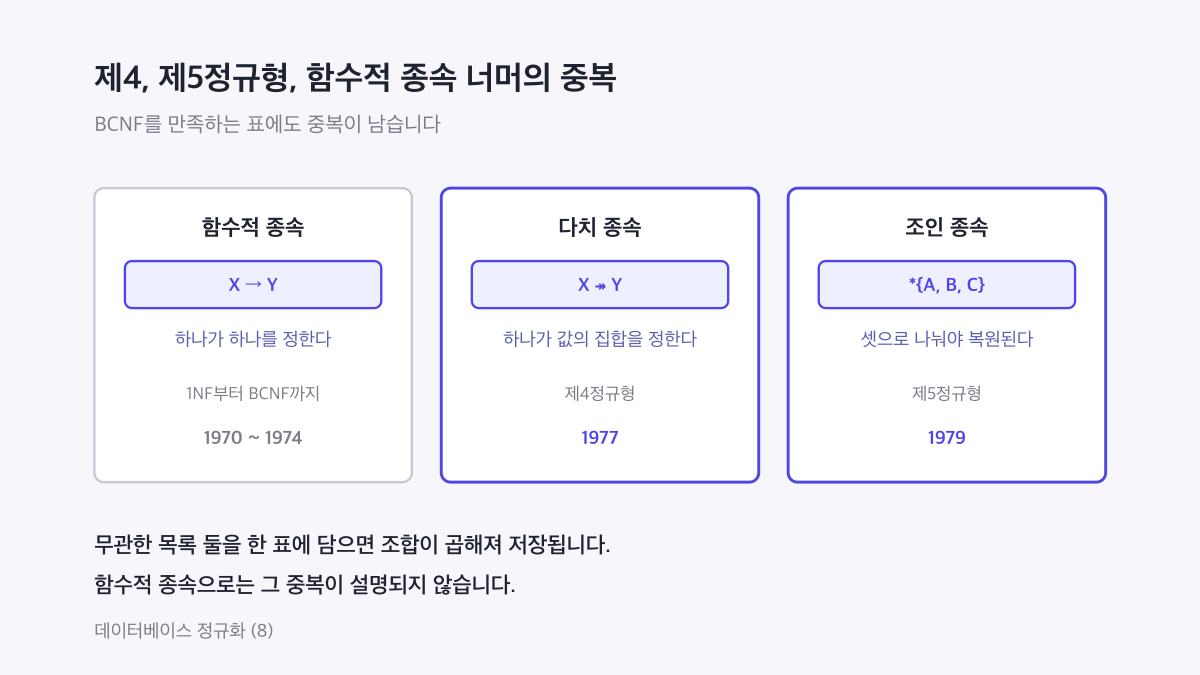
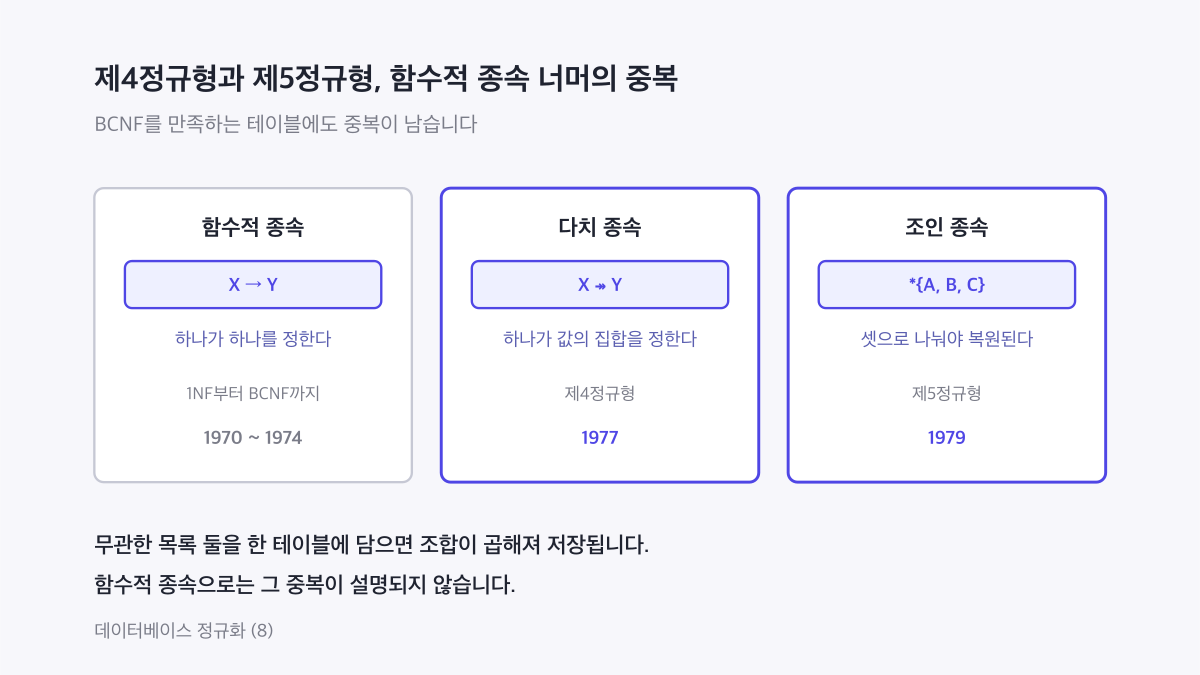
블로그: 정규화 8편 제목과 용어 정리, 종속 관계 그림 추가
제목을 "제4정규형과 제5정규형, 함수적 종속 너머의 중복" 으로 바꾸고,
관계를 가리키는 "표" 를 전부 "테이블" 로, "사영" 을 "프로젝션" 으로
통일한다. 세 종속의 포함 관계를 한 장으로 보이는 그림을 넣는다.

- 릴레이션은 테이블, 화면에 그린 마크다운 표만 표. docs/writing-terms.md
  에 relation, projection, row 세 항목 추가
- db-fd-mvd-jd-sets.svg 신규. 함수적 종속 ⊂ 다치 종속 ⊂ 조인 종속 을
  동심 타원으로 그리고 조인 종속 절에 배치
- db-4nf-multivalued.svg: 화살표에 과목 ↠ 교수 를 추가해 교수 컬럼이
  왜 나뉘는지 보이게 함. 위치가 어긋난 조인 설명 캡션 삭제, "줄" 을
  "행" 으로
- 자명한 다치 종속의 두 번째 조건이 왜 성립하는지를 본문에서 풀어 씀
- DKNF 절의 "그 역도 성립" 을 양방향으로 나눠 적음
- 제5정규형 절에 삽입 이상과 삭제 이상이 어떻게 생기는지 추가
- 1~7편 시리즈 상자의 8편 라벨을 새 제목으로 바꾸고, 7편과 8편을 링크로
  연결. pubDate 를 Sep 09 2026 으로

Changed region(s): [[0.0617, 0.0933, 0.5858, 0.2178], [0.2158, 0.7778, 0.5242, 0.84]]

diff --git a/src/content/blog/db-normalization-8-higher-normal-forms.md b/src/content/blog/db-normalization-8-higher-normal-forms.md
@@ -1,7 +1,7 @@
 ---
-title: '데이터베이스 정규화 (8): 제4, 제5정규형, 함수적 종속 너머의 중복'
-description: '제4정규형과 제5정규형을 개요 수준으로 다룹니다. BCNF를 만족하는데도 남는 중복, 그 중복을 설명하는 다치 종속과 조인 종속, 분해 절차, 그리고 도메인키 정규형(DKNF)과 제6정규형까지 정리합니다.'
-pubDate: 'Aug 30 2026'
+title: '데이터베이스 정규화 (8): 제4정규형과 제5정규형, 함수적 종속 너머의 중복'
+description: 'BCNF를 만족하는 테이블에도 중복이 남습니다. 함수적 종속으로는 설명되지 않는 그 중복의 이름인 다치 종속과 조인 종속, 자명한 종속을 조건에서 빼는 이유, 제4정규형과 제5정규형의 정의와 분해 절차, 그리고 도메인키 정규형과 제6정규형까지 정리합니다.'
+pubDate: 'Sep 09 2026'
 heroImage: '../../assets/db-normalization-8-higher-normal-forms-hero.svg'
 ogImage: '../../assets/db-normalization-8-higher-normal-forms-hero.png'
 tags: ['데이터베이스', '정규화', 'DB설계', '정규형']
@@ -13,7 +13,7 @@ draft: false
 
 [7편](/blog/db-normalization-7-keys-natural-surrogate/)에서는 잠시 정규형에서 벗어나 키 설계를 다뤘습니다. 이번 편은 정규형으로 돌아옵니다.
 
-한 과목에서 쓰는 교재와 그 과목을 담당하는 교수를 한 표에 담았습니다. 한 교재를 여러 과목에서 쓸 수 있고, 한 교수도 여러 과목을 담당할 수 있습니다.
+한 과목에서 쓰는 교재와 그 과목을 담당하는 교수를 한 테이블에 담았습니다. 한 교재를 여러 과목에서 쓸 수 있고, 한 교수도 여러 과목을 담당할 수 있습니다. 교재를 무엇으로 정하든 담당 교수는 달라지지 않습니다.
 
 | 과목 | 교재 | 교수 |
 |------|------|------|
@@ -22,9 +22,9 @@ draft: false
 | 데이터베이스 | 교재B | 박교수 |
 | 데이터베이스 | 교재B | 정교수 |
 
-이 표에는 비자명한 함수적 종속이 하나도 없습니다. 과목을 알아도 교재가 정해지지 않고, 과목과 교재를 알아도 교수가 정해지지 않습니다. 결정자가 없으니 [6편](/blog/db-normalization-6-bcnf/)의 BCNF 조건을 따질 것도 없이 통과합니다.
+이 테이블에는 비자명한 함수적 종속이 하나도 없습니다. 과목을 알아도 교재가 정해지지 않고, 과목과 교재를 알아도 교수가 정해지지 않습니다. 결정자가 없으니 [6편](/blog/db-normalization-6-bcnf/)의 BCNF 조건을 따질 것도 없이 통과합니다.
 
-그런데 교재를 한 권 더 넣으려면 두 줄을 넣어야 합니다. 교수 두 명을 다 채워야 하기 때문입니다. 정교수가 담당에서 빠지면 두 줄을 지워야 합니다. 교재 목록과 교수 목록이 서로 곱해진 채로 저장되어 있습니다.
+그런데 교재를 한 권 더 넣으려면 두 행을 넣어야 합니다. 교수 두 명을 다 채워야 하기 때문입니다. 정교수가 담당에서 빠지면 두 행을 지워야 합니다. 교재 목록과 교수 목록이 서로 곱해진 채로 저장되어 있습니다.
 
 > **시리즈 구성**
 > 1. [데이터 무결성과 키](/blog/db-normalization-1-integrity-and-keys/)
@@ -34,24 +34,26 @@ draft: false
 > 5. [제3정규형 (3NF)](/blog/db-normalization-5-3nf/)
 > 6. [보이스-코드 정규형 (BCNF)](/blog/db-normalization-6-bcnf/)
 > 7. [자연키와 대리키: 키 설계](/blog/db-normalization-7-keys-natural-surrogate/)
-> 8. **제4, 제5정규형 개요와 그 너머** (이번 글)
+> 8. **제4정규형과 제5정규형, 함수적 종속 너머의 중복** (이번 글)
 > 9. 정규화 절차와 역정규화
 
 ## 함수적 종속으로는 설명되지 않는 중복
 
-위 표를 다시 봅니다. 후보키는 세 컬럼 전체입니다. 어떤 두 컬럼도 나머지 한 컬럼을 정하지 못하기 때문입니다. 과목은 교재를 하나로 정하지 못하고, 교재도 과목을 하나로 정하지 못합니다.
+위 테이블을 다시 봅니다. 후보키는 세 컬럼 전체입니다. 어떤 두 컬럼도 나머지 한 컬럼을 정하지 못하기 때문입니다. 과목은 교재를 하나로 정하지 못하고, 교재도 과목을 하나로 정하지 못합니다.
 
-비자명한 함수적 종속이 없으므로 1NF부터 BCNF까지 전부 만족합니다. [2편](/blog/db-normalization-2-anomalies/)에서 다룬 함수적 종속을 기준으로 삼는 한, 이 표에는 고칠 것이 없습니다.
+비자명한 함수적 종속이 없으므로 1NF부터 BCNF까지 전부 만족합니다. [2편](/blog/db-normalization-2-anomalies/)에서 다룬 함수적 종속을 기준으로 삼는 한, 이 테이블에는 고칠 것이 없습니다.
 
 그런데도 [2편](/blog/db-normalization-2-anomalies/)의 이상현상이 그대로 나타납니다.
 
-- **삽입**: 교재C를 추가하려면 교수 수만큼, 즉 두 줄을 넣어야 합니다. 한 줄만 넣으면 "교재C는 박교수 수업에서만 쓴다"는 없던 사실이 생깁니다.
-- **삭제**: 정교수가 담당에서 빠지면 교재 수만큼, 즉 두 줄을 지워야 합니다.
-- **갱신**: 교재A의 제목이 바뀌면 그 교재가 들어간 줄을 전부 고쳐야 합니다.
+- **삽입**: 교재C를 쓰기로 하면 두 행을 넣어야 합니다. 박교수 행과 정교수 행입니다. 한 행만 넣으면 "교재C는 박교수 수업에서만 쓴다"는 없던 사실이 생깁니다.
+- **삭제**: 정교수가 담당에서 빠지면 두 행을 지워야 합니다. 한 행만 지우면 교재 한 권이 정교수 담당으로 남습니다.
+- **갱신**: 교재A가 개정판으로 바뀌면 그 교재가 들어간 두 행을 함께 고쳐야 합니다. 한 행만 고치면 한 과목이 세 권을 쓰는 테이블이 됩니다.
 
-원인은 표에 담긴 사실이 두 종류라는 데 있습니다. 하나는 "이 과목은 이 교재들을 쓴다"이고, 다른 하나는 "이 과목은 이 교수들이 담당한다"입니다. 두 사실은 서로 무관합니다. 교재를 무엇으로 정하든 담당 교수는 달라지지 않습니다.
+세 항목의 모양이 같습니다. 사실 하나를 넣고 지우고 고치는 데 여러 행을 함께 건드려야 하고, 하나라도 빠뜨리면 테이블이 업무 규칙과 어긋납니다.
 
-무관한 두 목록을 한 표에 담으면 모든 조합이 행으로 나옵니다. 교재 두 권과 교수 두 명이면 네 줄, 세 권과 세 명이면 아홉 줄입니다. 저장된 사실은 여섯 개인데 행은 아홉 개입니다.
+원인은 테이블에 담긴 사실이 두 종류라는 데 있습니다. 하나는 "이 과목은 이 교재들을 쓴다"이고, 다른 하나는 "이 과목은 이 교수들이 담당한다"입니다. 두 사실은 서로 무관합니다.
+
+무관한 두 목록을 한 테이블에 담으면 모든 조합이 행으로 나옵니다. 교재 두 권과 교수 두 명이면 네 행, 세 권과 세 명이면 아홉 행입니다. 저장된 사실은 여섯 개인데 행은 아홉 개입니다.
 
 함수적 종속은 "하나가 하나를 정한다"를 다룹니다. 여기서 문제가 되는 관계는 "하나가 값의 집합을 정한다"입니다. 이 관계를 부르는 이름이 다치 종속입니다.
 
@@ -59,15 +61,29 @@ draft: false
 
 **다치 종속(multivalued dependency)** 은 X의 값 하나가 Y 값의 집합을 정하는 관계입니다. 그 집합이 나머지 속성 값과 무관하게 늘 같으면 다치 종속이 성립합니다. `X ↠ Y`로 적고, 화살표는 함수적 종속과 구분하려고 머리가 둘인 것을 씁니다.
 
-위 표에서는 `과목 ↠ 교재`가 성립합니다. 데이터베이스 과목의 교재 집합은 어느 교수 행을 골라 보든 `{교재A, 교재B}`로 같습니다. 같은 이유로 `과목 ↠ 교수`도 성립합니다.
+위 테이블에서는 `과목 ↠ 교재`가 성립합니다. 데이터베이스 과목의 교재 집합은 어느 교수 행을 골라 보든 `{교재A, 교재B}`로 같습니다. 같은 이유로 `과목 ↠ 교수`도 성립합니다.
 
 다치 종속은 이렇게 짝으로 나타납니다. 릴레이션의 속성이 X, Y, 나머지 Z로 나뉠 때 `X ↠ Y`가 성립하면 `X ↠ Z`도 성립합니다.
 
-**자명한 다치 종속(trivial MVD)** 은 정규형 판단에서 제외합니다. Y가 X에 이미 포함되거나, X와 Y를 합치면 릴레이션의 모든 속성이 되는 경우입니다. 이런 종속은 어느 표에서나 성립합니다. [2편](/blog/db-normalization-2-anomalies/)에서 다룬 자명한 함수적 종속을 정규형 판단에서 제외한 것과 같은 이유입니다.
-
 모든 함수적 종속은 다치 종속입니다. `X → Y`가 성립하면 X 값 하나에 대응하는 Y 값의 집합은 원소가 하나뿐이고, 그 집합은 나머지 속성 값과 무관하게 같습니다. 다치 종속은 함수적 종속을 집합 쪽으로 넓힌 개념입니다.
 
-한 가지 전제가 있습니다. 다치 종속은 조합이 빠짐없이 들어 있어야 성립합니다. 위 표에서 `데이터베이스, 교재B, 정교수` 줄이 빠지면 교재 집합이 교수마다 달라지므로 `과목 ↠ 교재`는 성립하지 않습니다. 다치 종속은 데이터가 우연히 그렇게 생긴 것이 아니라 업무 규칙으로 그래야 하는 경우를 가리킵니다.
+한 가지 전제가 있습니다. 다치 종속은 조합이 빠짐없이 들어 있어야 성립합니다. 위 테이블에서 `데이터베이스, 교재B, 정교수` 행이 빠지면 교재 집합이 교수마다 달라지므로 `과목 ↠ 교재`는 성립하지 않습니다. 다치 종속은 데이터가 우연히 그렇게 생긴 것이 아니라 업무 규칙으로 그래야 하는 경우를 가리킵니다.
+
+## 자명한 종속은 왜 정규형 조건에서 빠질까?
+
+정규형 조건은 언제나 **비자명한** 종속만 따집니다. 뒤에 나올 제4정규형의 정의도 마찬가지라서, 무엇이 빠지는지 먼저 정해 둡니다.
+
+**자명한 함수적 종속**은 `X → Y`에서 Y가 X에 이미 들어 있는 경우입니다. 위 테이블의 `{과목, 교재} → 과목`이 그렇습니다. **자명한 다치 종속**은 두 가지입니다. Y가 X에 들어 있거나, X와 Y를 합치면 릴레이션의 속성 전부가 되는 경우입니다.
+
+빼는 이유는 세 가지입니다.
+
+첫째, 그 테이블에 대해 알려 주는 것이 없습니다. `{과목, 교재} → 과목`은 학생 테이블에서도 주문 테이블에서도 같은 모양으로 성립합니다. 어느 테이블에서나 참인 종속은 그 테이블만의 성질이 아닙니다.
+
+둘째, 중복을 만들지 않습니다. 정규형은 중복을 줄이려고 거는 조건입니다. Y가 X 안에 이미 들어 있으면 따로 저장되는 값이 없으니 겹쳐 저장될 것도 없습니다.
+
+셋째, 빼지 않으면 조건이 성립하지 않습니다. BCNF는 비자명한 함수적 종속에서 결정자가 슈퍼키여야 한다는 조건입니다. 자명한 것까지 넣으면 `{과목, 교재} → 과목`이 걸립니다. `{과목, 교재}`는 슈퍼키가 아니므로 위반입니다. 후보키가 세 컬럼 전체인 테이블은 어느 것도 BCNF를 통과할 수 없게 됩니다. 게다가 분해로 없앨 수도 없습니다. Y가 X 안에 들어 있으니 떼어 낼 것이 없습니다.
+
+다치 종속의 두 번째 자명 조건도 같은 자리에 있습니다. 과목과 교재 두 컬럼만 있는 테이블에서 `과목 ↠ 교재`는 언제나 성립합니다. 나머지 속성이 없어서 "나머지 속성 값과 무관하게 같은 집합"이라는 조건이 저절로 참이 됩니다. 이 조건은 분해 결과를 판정할 때 다시 씁니다.
 
 ## 제4정규형의 정의
 
@@ -80,19 +96,19 @@ draft: false
 | BCNF | 비자명한 함수적 종속 `X → Y` | X가 슈퍼키 |
 | 4NF | 비자명한 다치 종속 `X ↠ Y` | X가 슈퍼키 |
 
-앞의 표를 이 기준으로 판정합니다. `과목 ↠ 교재`는 비자명합니다. 교재는 과목에 포함되지 않고, 과목과 교재를 합쳐도 세 컬럼이 되지 않기 때문입니다. 그리고 `과목`은 슈퍼키가 아닙니다. 후보키가 세 컬럼 전체이기 때문입니다. 따라서 4NF 위반입니다.
-
-![과목, 교재, 교수를 한 표에 담으면 교재 두 권과 교수 두 명의 조합이 네 줄로 저장되지만, 과목과 교재, 과목과 교수 두 표로 나누면 각각 두 줄씩만 저장되고 두 표를 과목으로 조인해 원래 표를 복원할 수 있음을 비교한 도식](../../assets/db-4nf-multivalued.svg)
+앞의 테이블을 이 기준으로 판정합니다. `과목 ↠ 교재`는 비자명합니다. 교재는 과목에 포함되지 않고, 과목과 교재를 합쳐도 세 컬럼이 되지 않기 때문입니다. 그리고 `과목`은 슈퍼키가 아닙니다. 후보키가 세 컬럼 전체이기 때문입니다. 따라서 4NF 위반입니다.
 
 ## 제4정규형으로 만드는 과정
 
-표를 4NF로 정규화하는 절차입니다. BCNF 때와 같은 모양입니다.
+테이블을 4NF로 정규화하는 절차입니다. BCNF 때와 같은 모양입니다.
 
 1. 비자명한 다치 종속을 나열하고, 각 결정자가 슈퍼키인지 확인한다.
-2. 결정자가 슈퍼키가 아닌 다치 종속 `X ↠ Y`를 찾으면, `X`와 `Y`를 묶어 별도 표로 분리한다.
-3. `X`와 나머지 속성을 묶어 또 하나의 표로 둔다.
+2. 결정자가 슈퍼키가 아닌 다치 종속 `X ↠ Y`를 찾으면, `X`와 `Y`를 묶어 별도 테이블로 분리한다.
+3. `X`와 나머지 속성을 묶어 또 하나의 테이블로 둔다.
 
-위 예에서 문제가 된 종속은 `과목 ↠ 교재`이고, 결정자 `과목`이 슈퍼키가 아닙니다. 이를 기준으로 분리합니다.
+위 예에서 결정자가 슈퍼키가 아닌 다치 종속은 `과목 ↠ 교재`와 `과목 ↠ 교수` 둘입니다. 짝으로 나타나므로 둘 다 위반이고, 한 번의 분해로 둘을 함께 처리합니다. `{과목, 교재}`를 한 테이블로 떼어 내면 남은 `{과목, 교수}`가 두 번째 테이블이 됩니다.
+
+![과목, 교재, 교수를 한 테이블에 담으면 교재 두 권과 교수 두 명의 조합이 네 행으로 저장되지만, 다치 종속 두 개를 기준으로 과목-교재와 과목-교수 두 테이블로 나누면 각각 두 행씩만 저장됨을 비교한 도식](../../assets/db-4nf-multivalued.svg)
 
 **과목-교재**: `{과목, 교재}(PK)`
 
@@ -108,15 +124,29 @@ draft: false
 | 데이터베이스 | 박교수 |
 | 데이터베이스 | 정교수 |
 
-이제 교재C를 추가하면 과목-교재에 한 줄만 넣으면 됩니다. 정교수가 담당에서 빠지면 과목-교수에서 한 줄만 지웁니다. 두 표를 `과목`으로 조인하면 원래 네 줄이 그대로 복원됩니다.
+## 나눈 테이블에서는 다치 종속이 자명해진다
 
-교재 세 권과 교수 세 명이면 차이가 커집니다. 한 표에 담으면 아홉 줄이지만, 나누면 세 줄과 세 줄입니다.
+두 테이블이 4NF를 만족하는 이유는 `과목`이 슈퍼키가 되어서가 아닙니다. 과목-교재 테이블의 후보키는 여전히 `{과목, 교재}` 전체이고, `과목`은 그대로 슈퍼키가 아닙니다.
 
-## 조인 종속과 제5정규형: 셋으로 나눠야 복원되는 표
+달라진 것은 종속 쪽입니다. 과목과 교재만 남기면 `과목 ↠ 교재`에서 X와 Y를 합친 것이 테이블의 속성 전부가 됩니다. 앞 절에서 본 두 번째 자명 조건입니다. 조건이 따지는 대상에서 빠지고, 비자명한 다치 종속은 하나도 남지 않습니다. 과목-교수 테이블도 같습니다.
 
-4NF까지 오면 표를 둘로 쪼개 없앨 수 있는 중복은 정리됩니다. 그런데 둘로 쪼개면 원래 데이터가 복원되지 않고, 셋으로 쪼개야 복원되는 표가 있습니다.
+이상현상도 함께 없어집니다.
 
-공급업체가 프로젝트 현장에 부품을 대는 표를 봅니다.
+- **삽입**: 교재C를 쓰기로 하면 과목-교재에 한 행을 넣습니다. 교수 목록은 다른 테이블에 있어서 영향을 받지 않습니다.
+- **삭제**: 정교수가 담당에서 빠지면 과목-교수에서 한 행을 지웁니다. 교재 목록은 그대로 남습니다.
+- **갱신**: 교재A가 개정판으로 바뀌면 과목-교재의 한 행만 고칩니다.
+
+사실 하나가 한 행에만 적혀 있으니 함께 건드릴 다른 행이 없습니다. 빠뜨려서 테이블이 업무 규칙과 어긋날 자리도 없어집니다.
+
+정보는 잃지 않습니다. 두 테이블을 `과목`으로 조인하면 원래 네 행이 그대로 나옵니다. 다치 종속 `X ↠ Y`가 성립하는 것과, XY와 XZ 두 테이블로 나눈 뒤 조인해 원래 릴레이션이 복원되는 것은 같은 조건입니다. Fagin의 1977년 논문이 이 동치를 보입니다.
+
+교재 세 권과 교수 세 명이면 차이가 커집니다. 한 테이블에 담으면 아홉 행이지만, 나누면 세 행과 세 행입니다.
+
+## 둘로 나누면 없던 행이 생기는 테이블
+
+다치 종속으로 잡히는 중복은 테이블 둘로 나눠 정리했습니다. 둘로 나눠서는 복원되지 않는 테이블도 있습니다.
+
+공급업체가 프로젝트 현장에 부품을 대는 테이블을 봅니다.
 
 | 공급업체 | 부품 | 프로젝트 |
 |----------|------|----------|
@@ -127,37 +157,58 @@ draft: false
 
 여기에 업무 규칙이 하나 있습니다. **어떤 업체가 어떤 부품을 공급하고, 그 부품을 어떤 현장이 쓰고, 그 업체가 그 현장에 납품하고 있다면, 그 업체는 그 현장에 그 부품을 공급한다**는 규칙입니다.
 
-마지막 줄이 이 규칙 때문에 있는 줄입니다. A사는 볼트를 공급하고(1행), 1현장은 볼트를 쓰고(3행), A사는 1현장에 납품합니다(2행). 세 조건이 모두 맞으므로 `A사, 볼트, 1현장`이 반드시 있어야 합니다.
+마지막 행이 이 규칙 때문에 있는 행입니다. A사는 볼트를 공급하고(1행), 1현장은 볼트를 쓰고(3행), A사는 1현장에 납품합니다(2행). 세 조건이 모두 맞으므로 `A사, 볼트, 1현장`이 반드시 있어야 합니다.
 
-이 표에는 비자명한 다치 종속이 없습니다. `공급업체 ↠ 부품`이 성립하려면 A사의 부품 집합 `{볼트, 너트}`가 A사의 현장마다 똑같이 나와야 하는데, `A사, 너트, 2현장`이 없습니다. 다른 조합도 마찬가지입니다. 그러므로 4NF를 만족합니다. 그런데도 마지막 줄은 앞의 세 줄에서 규칙으로 유도되므로, 같은 사실이 두 군데 적혀 있습니다.
+이 테이블에는 비자명한 다치 종속이 없습니다. `공급업체 ↠ 부품`이 성립하려면 A사의 부품 집합 `{볼트, 너트}`가 A사의 현장마다 똑같이 나와야 하는데, `A사, 너트, 2현장`이 없습니다. 다른 조합도 마찬가지입니다. 그러므로 제4정규형을 만족합니다.
 
-이 표를 두 컬럼씩 셋으로 나눠 봅니다.
+그런데도 이상현상이 나타납니다. 규칙이 요구하는 행을 사람이 직접 채워 넣어야 하기 때문입니다.
+
+- **삽입**: `A사, 볼트, 2현장`과 `B사, 볼트, 1현장` 두 행만 있는 상태에서 A사가 1현장에 너트를 대기 시작했다고 합시다. `A사, 너트, 1현장` 한 행으로 끝나지 않습니다. A사가 볼트를 공급하고 1현장이 볼트를 쓰는데 A사가 1현장에 납품하게 되었으므로, 규칙에 따라 `A사, 볼트, 1현장`도 함께 넣어야 합니다. 지금 네 행은 그렇게 만들어진 모양입니다.
+- **삭제**: 네 행에서 `A사, 볼트, 1현장`만 지우면 규칙과 어긋납니다. 남은 세 행이 여전히 A사의 볼트 공급, 1현장의 볼트 사용, A사의 1현장 납품을 말하고 있기 때문입니다. 지우려면 다른 행까지 함께 지워야 합니다.
+
+한 행이 앞의 세 행에서 규칙으로 유도되므로, 같은 사실이 두 군데 적혀 있는 셈입니다.
+
+## 셋으로 나눠야 원래 테이블이 복원된다
+
+이 테이블을 두 컬럼씩 뽑아 세 테이블로 나눠 봅니다.
 
 - **공급**(공급업체, 부품): `A사-볼트`, `A사-너트`, `B사-볼트`
 - **사용**(부품, 프로젝트): `볼트-2현장`, `너트-1현장`, `볼트-1현장`
 - **납품**(공급업체, 프로젝트): `A사-2현장`, `A사-1현장`, `B사-1현장`
 
-셋을 모두 조인하면 원래 네 줄이 나옵니다. 규칙이 만들던 마지막 줄은 조인이 다시 만들어 줍니다. 반면 둘만 조인하면 안 됩니다. 공급과 납품을 `공급업체`로 조인하면 A사의 부품 두 개와 A사의 현장 두 개가 곱해져 네 줄이 나오고, 거기에 B사 한 줄이 붙어 다섯 줄이 됩니다. 원래 표에 없던 `A사, 너트, 2현장`이 섞여 들어옵니다.
+셋을 모두 조인하면 원래 네 행이 나옵니다. 규칙이 만들던 마지막 행은 조인이 다시 만들어 줍니다. 앞 절의 이상현상도 함께 없어집니다. A사가 1현장에 너트를 대기 시작하면 공급에 `A사-너트`, 납품에 `A사-1현장`을 넣으면 되고, 규칙이 요구하는 조합은 저장되는 대신 조인 결과로 나옵니다.
 
-여기서 성립하는 제약이 **조인 종속(join dependency)** 입니다. 릴레이션 R을 여러 조각으로 사영한 뒤 다시 조인하면 R이 그대로 복원된다는 제약이고, `*{A, B, ..., Z}`로 적습니다. 다치 종속은 조인 종속의 특수한 경우입니다. 조각이 둘인 조인 종속이 다치 종속이고, 조각이 셋 이상이면 다치 종속으로는 잡히지 않습니다.
+둘만 조인하면 안 됩니다. 공급과 납품을 `공급업체`로 조인하면 A사의 부품 두 개와 A사의 현장 두 개가 곱해져 네 행이 나오고, 거기에 B사 한 행이 붙어 다섯 행이 됩니다. 원래 테이블에 없던 `A사, 너트, 2현장`이 섞여 들어옵니다.
 
-**제5정규형(5NF)은 모든 비자명한 조인 종속이 후보키로부터 유도되어야 한다**는 조건입니다. 조인 종속을 이루는 각 조각이 모두 릴레이션의 슈퍼키일 때 그렇습니다. Fagin이 1979년 논문 「Normal Forms and Relational Database Operators」에서 제안했습니다. 사영과 조인만 쓸 때 더 나눌 것이 없는 상태라는 뜻에서 **사영-조인 정규형(projection-join normal form, PJ/NF)** 이라고도 부릅니다.
+## 조인 종속이란
 
-위 표의 세 조각짜리 조인 종속은 조각 어느 것도 슈퍼키가 아니므로 5NF 위반입니다. 셋으로 나눈 뒤에는 각 표에 비자명한 조인 종속이 남지 않아 5NF를 만족합니다.
+방금 확인한 성질이 조인 종속입니다. **조인 종속(join dependency)** 은 릴레이션 R을 여러 테이블로 나눈 뒤 다시 조인하면 R이 그대로 복원된다는 제약입니다. `*{A, B, ..., Z}`로 적고, 각 항목은 나눈 테이블의 컬럼 목록입니다.
+
+다치 종속은 조인 종속의 특수한 경우입니다. 나눈 테이블이 둘인 조인 종속이 다치 종속입니다. 앞에서 본 대로, `X ↠ Y`가 성립하는 것과 XY와 XZ 두 테이블로 나눈 분해가 복원되는 것은 같은 조건이었습니다. 나눈 테이블이 셋 이상이면 다치 종속으로는 잡히지 않습니다.
+
+세 종속의 관계를 한자리에 놓으면 이렇습니다.
+
+![함수적 종속, 다치 종속, 조인 종속을 세 겹 동심원으로 나타낸 도식. 가장 안쪽이 X 값 하나가 Y 값 하나를 정하는 함수적 종속, 그 바깥이 X 값 하나가 Y 값의 집합을 정하는 다치 종속이며 테이블 둘로 나누는 조인 종속과 같음, 가장 바깥이 테이블 셋 이상으로 나누는 조인 종속임을 적어 둔 그림](../../assets/db-fd-mvd-jd-sets.svg)
+
+## 제5정규형의 정의
+
+**제5정규형(5NF)은 모든 비자명한 조인 종속이 후보키로부터 유도되어야 한다**는 조건입니다. 조인 종속이 가리키는 각 테이블의 컬럼 목록이 모두 릴레이션의 슈퍼키일 때 그렇습니다. Fagin이 1979년 논문 「Normal Forms and Relational Database Operators」에서 제안했습니다. 컬럼 일부만 뽑는 연산과 조인만 쓸 때 더 나눌 것이 없는 상태라는 뜻에서 **프로젝션 조인 정규형(projection-join normal form, PJ/NF)** 이라고도 부릅니다.
+
+위 테이블의 세 테이블짜리 조인 종속은 어느 컬럼 목록도 슈퍼키가 아니므로 5NF 위반입니다. 셋으로 나눈 뒤에는 각 테이블에 비자명한 조인 종속이 남지 않아 5NF를 만족합니다.
 
 ## 제5정규형 판정에는 업무 규칙이 필요하다
 
-조인 종속은 표에 들어 있는 데이터만 봐서는 알 수 없습니다.
+조인 종속은 테이블에 들어 있는 데이터만 봐서는 알 수 없습니다.
 
-앞의 네 줄만 놓고 보면 마지막 줄이 왜 있는지 알 수 없습니다. 규칙 때문에 있어야 하는 줄일 수도 있고, A사가 1현장에 볼트를 댄 일이 있어서 들어온 줄일 수도 있습니다. 앞의 세 줄이 있을 때 마지막 줄이 없어도 되는 업무라면, 이 표에는 조인 종속이 없고 5NF 위반도 아닙니다.
+앞의 네 행만 놓고 보면 마지막 행이 왜 있는지 알 수 없습니다. 규칙 때문에 있어야 하는 행일 수도 있고, A사가 1현장에 볼트를 댄 일이 있어서 들어온 행일 수도 있습니다. 앞의 세 행이 있을 때 마지막 행이 없어도 되는 업무라면, 이 테이블에는 조인 종속이 없고 5NF 위반도 아닙니다.
 
-구분이 안 되는데 나누면 데이터가 늘어납니다. 규칙이 없는 표를 셋으로 쪼개고 다시 조인하면, 조금 전에 본 `A사, 너트, 2현장`처럼 원래 없던 행이 생깁니다. 없던 사실이 만들어지는 것이므로 나누기 전보다 나쁩니다. 함수적 종속은 컬럼 사이의 관계라 스키마와 데이터를 보면 상당 부분 짐작할 수 있지만, 조인 종속은 그렇지 않습니다.
+구분이 안 되는데 나누면 데이터가 늘어납니다. 규칙이 없는 테이블을 셋으로 나누고 다시 조인하면, 조금 전에 본 `A사, 너트, 2현장`처럼 원래 없던 행이 생깁니다. 없던 사실이 만들어지는 것이므로 나누기 전보다 나쁩니다. 함수적 종속은 컬럼 사이의 관계라 스키마와 데이터를 보면 상당 부분 짐작할 수 있지만, 조인 종속은 그렇지 않습니다.
 
-문제가 되는 자리도 좁습니다. 공급업체, 부품, 프로젝트처럼 실체 셋을 함께 담는 관계 표에서 나타납니다. 두 실체를 잇는 관계 표는 조각이 둘뿐이라 4NF까지로 정리됩니다.
+5NF 위반은 실체 셋을 한 테이블에 담았을 때 생깁니다. 공급업체, 부품, 프로젝트가 그런 경우입니다. 실체 둘만 잇는 테이블은 컬럼을 나눠 봐야 테이블이 둘이고, 테이블 둘로 나누는 조인 종속은 곧 다치 종속입니다. 그런 테이블은 제4정규형까지만 확인하면 됩니다.
 
 ## 도메인키 정규형(DKNF)과 제6정규형
 
-4NF와 5NF 뒤로도 정규형은 더 있습니다. 6편의 연표를 이어 그리면 이렇습니다.
+4NF와 5NF 뒤로도 정규형은 더 있습니다. [6편](/blog/db-normalization-6-bcnf/)의 연표를 이어 그리면 이렇습니다.
 
 | 연도 | 정규형 | 도입 | 다루는 것 |
 |------|--------|------|-----------|
@@ -166,49 +217,50 @@ draft: false
 | 1974 | BCNF | Boyce, Codd | 결정자가 후보키가 아닌 함수적 종속 |
 | 1977 | **4NF** | Fagin | 다치 종속 |
 | 1979 | **5NF (PJ/NF)** | Fagin | 조인 종속 |
-| 1981 | DKNF | Fagin | 종속 대신 도메인과 키 |
-| 2002 | 6NF | Date, Darwen, Lorentzos | 비자명한 조인 종속 전부 |
-| 2012 | ETNF | Darwen, Date, Fagin | 4NF와 5NF 사이 |
+| 1981 | **DKNF** | Fagin | 종속 대신 도메인과 키 |
+| 2002 | **6NF** | Date, Darwen, Lorentzos | 비자명한 조인 종속 전부 |
+| 2012 | **ETNF** | Darwen, Date, Fagin | 4NF와 5NF 사이 |
 
 **도메인키 정규형(DKNF)** 은 Fagin이 1981년 논문 「A Normal Form for Relational Databases That Is Based on Domains and Keys」에서 제안했습니다. 앞의 정규형들이 종속성으로 정의된 것과 달리, 도메인 제약과 키 제약이라는 더 기본적인 개념으로 정의합니다. 릴레이션에 걸린 모든 제약이 도메인 제약과 키 제약에서 논리적으로 따라 나오면 DKNF입니다.
 
-논문은 스키마가 DKNF이면 삽입 이상과 삭제 이상이 없고, 그 역도 성립함을 보이는 취지로 설명합니다. [2편](/blog/db-normalization-2-anomalies/)에서 다룬 이상현상을 정규형의 정의 자리에 올려놓은 셈입니다. 다만 어떤 스키마든 DKNF로 바꾸는 일반적인 절차는 알려져 있지 않습니다. 위키백과 항목은 있는 스키마를 옮기기보다 처음부터 DKNF로 설계하는 쪽이 쉽다고 적습니다.
+논문은 스키마가 DKNF이면 삽입 이상과 삭제 이상이 없고, 거꾸로 삽입 이상과 삭제 이상이 없으면 그 스키마가 DKNF임을 보이는 취지로 설명합니다. [2편](/blog/db-normalization-2-anomalies/)에서 다룬 이상현상을 정규형의 정의 자리에 올려놓은 셈입니다. 다만 어떤 스키마든 DKNF로 바꾸는 일반적인 절차는 알려져 있지 않습니다. 위키백과 항목은 있는 스키마를 옮기기보다 처음부터 DKNF로 설계하는 쪽이 쉽다고 적습니다.
 
-**제6정규형(6NF)** 은 C.J. Date, Hugh Darwen, Nikos Lorentzos가 2002년 책 『Temporal Data and the Relational Model』에서 제시한 용어입니다. 비자명한 조인 종속을 하나도 갖지 않는 상태이고, 실제 모양은 키와 속성 하나로 이루어진 표에 가깝습니다. 속성마다 값이 바뀌는 시점이 다른 시간 데이터를 다루려고 도입됐습니다.
+**제6정규형(6NF)** 은 C.J. Date, Hugh Darwen, Nikos Lorentzos가 2002년 책 『Temporal Data and the Relational Model』에서 제시한 용어입니다. 비자명한 조인 종속을 하나도 갖지 않는 상태이고, 실제 모양은 키와 속성 하나로 이루어진 테이블에 가깝습니다. 속성마다 값이 바뀌는 시점이 다른 시간 데이터를 다루려고 도입됐습니다.
 
 4NF와 5NF 사이에도 정규형이 하나 있습니다. Darwen, Date, Fagin이 2012년 논문에서 제안한 **필수 튜플 정규형(essential tuple normal form, ETNF)** 입니다. 5NF보다 약한 조건이지만 중복 행을 없애는 데는 5NF와 같은 효과를 낸다고 논문이 밝힙니다.
 
 ## 어느 정규형까지 맞출까?
 
-4NF까지는 맞추는 편이 낫고, 5NF는 업무 규칙을 확인한 뒤에 판단합니다.
+제4정규형까지는 맞추고, 제5정규형은 업무 규칙을 확인한 뒤에 판단합니다.
 
-6편에서 BCNF까지 가지 않고 3NF에서 멈추는 선택을 봤습니다. 종속 보존을 포기해야 할 때가 있기 때문이었습니다. 4NF와 5NF는 사정이 다릅니다.
+[6편](/blog/db-normalization-6-bcnf/)에서는 BCNF까지 가지 않고 3NF에서 멈추는 선택을 봤습니다. 분해하면 함수적 종속을 한 테이블 안에서 검사할 수 없게 되는 경우가 있기 때문이었습니다. 제4정규형은 사정이 다릅니다.
 
-4NF 위반은 알아보기 쉽고, 두고 쓰는 비용이 큽니다. 서로 무관한 목록 둘을 한 표에 넣어 조합이 곱해진 표가 4NF 위반입니다. 행 수가 두 목록 길이의 곱이라 데이터가 늘수록 손해도 같이 늘고, 한 건을 넣고 지울 때마다 상대 목록 길이만큼 줄을 건드려야 합니다. 관계마다 표를 따로 두면 그런 표는 만들어지지 않습니다. 4NF는 새 규칙이라기보다 한 표에 관계를 두 개 담지 말라는 조건에 가깝습니다.
+위반한 테이블은 알아보기 쉽습니다. 서로 무관한 목록 둘을 한 테이블에 넣어 조합이 곱해진 형태입니다. 그대로 두는 비용도 큽니다. 행 수가 두 목록 길이의 곱이라 데이터가 늘수록 손해가 같이 늘고, 한 건을 넣고 지울 때마다 상대 목록 길이만큼 행을 건드려야 합니다. 분해로 잃는 것도 없습니다. 조인하면 원래 테이블이 복원됩니다. 관계마다 테이블을 따로 두면 위반한 테이블이 아예 만들어지지 않으므로, 제4정규형은 새로 외울 규칙이라기보다 한 테이블에 관계를 두 개 담지 말라는 조건에 가깝습니다.
 
-5NF는 판정에 업무 규칙 확인이 필요하고, 실체 셋을 함께 담는 관계 표에서만 문제가 됩니다. 규칙을 확인하지 못한 채 나누면 없던 행이 생기므로, 확인이 먼저입니다.
+제5정규형은 판정부터 다릅니다. 조인 종속이 있는지가 데이터에 드러나지 않아, 업무 규칙을 확인하기 전에는 위반인지 아닌지 알 수 없습니다. 규칙이 없는데 나누면 조인에서 없던 행이 생겨 나누기 전보다 나빠집니다. 컬럼 셋이 서로 짝지어 다니는 테이블을 만났을 때, 세 조건이 맞으면 나머지 한 조합이 반드시 있어야 하는 업무인지 먼저 확인하는 편이 낫습니다.
 
-DKNF는 설계 목표라기보다 이상현상이 없다는 것이 무엇인지를 정의로 밝힌 기준입니다. 6NF는 시간 데이터라는 특정 용도에서 씁니다.
-
-여기까지가 정규형입니다. 다음 편에서는 정규형 판정을 실제 설계에서 어떤 순서로 적용하는지, 그리고 성능을 이유로 정규화를 되돌리는 역정규화를 다루겠습니다.
+다음 편에서는 1편부터 여기까지의 절차를 한 줄기로 정리하고, 정규형을 일부러 어기는 역정규화를 다룹니다.
 
 ## 정리
 
-- **다치 종속** `X ↠ Y`는 X 값 하나에 대응하는 Y 값의 집합이 나머지 속성과 무관하게 같을 때 성립한다. 모든 함수적 종속은 다치 종속이다
+- BCNF까지 만족하는 테이블에도 중복이 남을 수 있다. 비자명한 함수적 종속이 하나도 없는데 삽입, 삭제, 갱신 이상이 나타나는 테이블이 그렇다
+- **다치 종속** `X ↠ Y`는 X 값 하나에 대응하는 Y 값의 집합이 나머지 속성 값과 무관하게 같을 때 성립한다. 모든 함수적 종속은 다치 종속이다
+- 정규형 조건은 비자명한 종속만 따진다. 자명한 종속은 어느 테이블에서나 성립해 그 테이블을 설명하지 못하고, 중복을 만들지도 않으며, 넣으면 조건 자체가 성립하지 않는다
 - **제4정규형(4NF)** 은 모든 비자명한 다치 종속에서 결정자가 슈퍼키여야 한다는 조건이다. 조건의 모양은 BCNF와 같고, 보는 종속만 다르다
-- 서로 무관한 목록 둘을 한 표에 담으면 조합이 곱해져 저장되고, 삽입, 삭제, 갱신 이상이 그대로 나타난다. 관계마다 표를 나누면 해결된다
-- **조인 종속**은 여러 조각으로 사영한 뒤 조인하면 원래 릴레이션이 복원된다는 제약이다. 조각이 둘인 경우가 다치 종속이다
-- **제5정규형(5NF)** 은 모든 비자명한 조인 종속이 후보키에서 유도되어야 한다는 조건이다. 셋 이상으로 나눠야 복원되는 표가 대상이다
+- 관계마다 테이블을 나누면 비자명한 다치 종속이 남지 않는다. 결정자가 슈퍼키가 되어서가 아니라, X와 Y가 테이블의 속성 전부가 되어 종속이 자명해지기 때문이다
+- **조인 종속**은 릴레이션을 여러 테이블로 나눈 뒤 조인하면 원래 릴레이션이 복원된다는 제약이다. 나눈 테이블이 둘인 경우가 다치 종속이다
+- **제5정규형(5NF)** 은 모든 비자명한 조인 종속이 후보키에서 유도되어야 한다는 조건이다. 셋으로 나눠야 복원되는 테이블이 대상이다
 - 5NF 판정은 데이터만으로는 못 하고 업무 규칙을 확인해야 한다. 규칙 없이 나누면 조인에서 없던 행이 생긴다
 - 그 너머로 **DKNF**(1981)는 모든 제약이 도메인과 키에서 따라 나올 것을 요구하고, **6NF**(2002)는 비자명한 조인 종속을 남기지 않는 상태로 시간 데이터에 쓰인다
 
 ## 참고 문헌
 
 - [R. Fagin, *Multivalued Dependencies and a New Normal Form for Relational Databases*](https://doi.org/10.1145/320557.320571), ACM Transactions on Database Systems 2(3), 1977, pp. 262–278. (4NF가 제안된 논문)
-- [R. Fagin, *Normal Forms and Relational Database Operators*](https://doi.org/10.1145/582095.582120), Proc. ACM SIGMOD 1979, pp. 153–160. (5NF, 사영-조인 정규형이 제안된 논문)
+- [R. Fagin, *Normal Forms and Relational Database Operators*](https://doi.org/10.1145/582095.582120), Proc. ACM SIGMOD 1979, pp. 153–160. (5NF, 프로젝션 조인 정규형이 제안된 논문)
 - [R. Fagin, *A Normal Form for Relational Databases That Is Based on Domains and Keys*](https://doi.org/10.1145/319587.319592), ACM Transactions on Database Systems 6(3), 1981, pp. 387–415. (DKNF가 제안된 논문)
 - [H. Darwen, C.J. Date, R. Fagin, *A Normal Form for Preventing Redundant Tuples in Relational Databases*](https://doi.org/10.1145/2274576.2274589), Proc. 15th International Conference on Database Theory (ICDT), 2012. (ETNF가 제안된 논문, [전문 PDF](https://openproceedings.org/2012/conf/icdt/DarwenDF12.pdf))
 - C.J. Date, H. Darwen, N.A. Lorentzos, *Temporal Data and the Relational Model*, Morgan Kaufmann, 2002. (6NF 용어가 제시된 책)
 - [Fourth normal form, Wikipedia](https://en.wikipedia.org/wiki/Fourth_normal_form): 4NF의 정의와 다치 종속.
+- [Multivalued dependency, Wikipedia](https://en.wikipedia.org/wiki/Multivalued_dependency): 다치 종속의 정의와 자명한 다치 종속.
 - [Fifth normal form, Wikipedia](https://en.wikipedia.org/wiki/Fifth_normal_form): 5NF의 정의와 조인 종속.
 - [Domain-key normal form, Wikipedia](https://en.wikipedia.org/wiki/Domain-key_normal_form): DKNF의 정의와 변환의 한계.

diff --git a/docs/writing-terms.md b/docs/writing-terms.md
@@ -17,6 +17,9 @@
 | expansion (collation) | 확장(expansion) | | CUBRID 공식 한국어 매뉴얼이 "확장"으로 표기. 근거 있음 (2026-08-24) |
 | contraction (collation) | 축약(contraction) | | CUBRID 공식 한국어 매뉴얼이 "축약"으로 표기. 근거 있음 (2026-08-24) |
 | ignorable character (collation) | ignorable character | 무시 문자 | 정착 역어를 확인 못 함. CUBRID 문서에도 이 용어가 없고 가중치 0 처리로만 설명됨. 영어를 쓰고 뜻을 문장으로 붙인다 (2026-08-24) |
+| relation (관계 모델) | 테이블 | 표 | 릴레이션을 가리킬 때는 "테이블". "표"는 화면에 그려진 마크다운 표만. 사용자 확정 (2026-09-09) |
+| projection (관계 대수) | 프로젝션(projection) | 사영, 투영 | 국내 데이터베이스 교재와 자격시험 자료가 음차 "프로젝션"을 쓴다. 제5정규형의 projection-join normal form도 "프로젝션 조인 정규형" (2026-09-09) |
+| row, tuple | 행 | 줄 | "줄"은 코드 라인으로 읽힌다. 사용자 확정 (2026-09-09) |
 
 ## 원칙
 

diff --git a/src/content/blog/db-normalization-2-anomalies.md b/src/content/blog/db-normalization-2-anomalies.md
@@ -18,8 +18,8 @@ draft: false
 > 4. [제2정규형 (2NF)](/blog/db-normalization-4-2nf/)
 > 5. [제3정규형 (3NF)](/blog/db-normalization-5-3nf/)
 > 6. [보이스-코드 정규형 (BCNF)](/blog/db-normalization-6-bcnf/)
-> 7. 자연키와 대리키: 키 설계
-> 8. 제4, 제5정규형 개요와 그 너머
+> 7. [자연키와 대리키: 키 설계](/blog/db-normalization-7-keys-natural-surrogate/)
+> 8. [제4정규형과 제5정규형, 함수적 종속 너머의 중복](/blog/db-normalization-8-higher-normal-forms/)
 > 9. 정규화 절차와 역정규화
 
 ## 한 테이블에 다 몰아넣으면

diff --git a/src/content/blog/db-normalization-1-integrity-and-keys.md b/src/content/blog/db-normalization-1-integrity-and-keys.md
@@ -31,8 +31,8 @@ draft: false
 > 4. [제2정규형 (2NF)](/blog/db-normalization-4-2nf/)
 > 5. [제3정규형 (3NF)](/blog/db-normalization-5-3nf/)
 > 6. [보이스-코드 정규형 (BCNF)](/blog/db-normalization-6-bcnf/)
-> 7. 자연키와 대리키: 키 설계
-> 8. 제4, 제5정규형 개요와 그 너머
+> 7. [자연키와 대리키: 키 설계](/blog/db-normalization-7-keys-natural-surrogate/)
+> 8. [제4정규형과 제5정규형, 함수적 종속 너머의 중복](/blog/db-normalization-8-higher-normal-forms/)
 > 9. 정규화 절차와 역정규화
 
 ## 데이터 무결성이란

diff --git a/src/content/blog/db-normalization-4-2nf.md b/src/content/blog/db-normalization-4-2nf.md
@@ -18,8 +18,8 @@ draft: false
 > 4. **제2정규형 (2NF)** (이번 글)
 > 5. [제3정규형 (3NF)](/blog/db-normalization-5-3nf/)
 > 6. [보이스-코드 정규형 (BCNF)](/blog/db-normalization-6-bcnf/)
-> 7. 자연키와 대리키: 키 설계
-> 8. 제4, 제5정규형 개요와 그 너머
+> 7. [자연키와 대리키: 키 설계](/blog/db-normalization-7-keys-natural-surrogate/)
+> 8. [제4정규형과 제5정규형, 함수적 종속 너머의 중복](/blog/db-normalization-8-higher-normal-forms/)
 > 9. 정규화 절차와 역정규화
 
 ## 등장 배경

diff --git a/src/content/blog/db-normalization-5-3nf.md b/src/content/blog/db-normalization-5-3nf.md
@@ -18,8 +18,8 @@ draft: false
 > 4. [제2정규형 (2NF)](/blog/db-normalization-4-2nf/)
 > 5. **제3정규형 (3NF)** (이번 글)
 > 6. [보이스-코드 정규형 (BCNF)](/blog/db-normalization-6-bcnf/)
-> 7. 자연키와 대리키: 키 설계
-> 8. 제4, 제5정규형 개요와 그 너머
+> 7. [자연키와 대리키: 키 설계](/blog/db-normalization-7-keys-natural-surrogate/)
+> 8. [제4정규형과 제5정규형, 함수적 종속 너머의 중복](/blog/db-normalization-8-higher-normal-forms/)
 > 9. 정규화 절차와 역정규화
 
 ## 등장 배경

diff --git a/src/content/blog/db-normalization-6-bcnf.md b/src/content/blog/db-normalization-6-bcnf.md
@@ -18,8 +18,8 @@ draft: false
 > 4. [제2정규형 (2NF)](/blog/db-normalization-4-2nf/)
 > 5. [제3정규형 (3NF)](/blog/db-normalization-5-3nf/)
 > 6. **보이스-코드 정규형 (BCNF)** (이번 글)
-> 7. 자연키와 대리키: 키 설계
-> 8. 제4, 제5정규형 개요와 그 너머
+> 7. [자연키와 대리키: 키 설계](/blog/db-normalization-7-keys-natural-surrogate/)
+> 8. [제4정규형과 제5정규형, 함수적 종속 너머의 중복](/blog/db-normalization-8-higher-normal-forms/)
 > 9. 정규화 절차와 역정규화
 
 ## 등장 배경

diff --git a/src/content/blog/db-normalization-3-1nf.md b/src/content/blog/db-normalization-3-1nf.md
@@ -18,8 +18,8 @@ draft: false
 > 4. 제2정규형 (2NF)
 > 5. [제3정규형 (3NF)](/blog/db-normalization-5-3nf/)
 > 6. [보이스-코드 정규형 (BCNF)](/blog/db-normalization-6-bcnf/)
-> 7. 자연키와 대리키: 키 설계
-> 8. 제4, 제5정규형 개요와 그 너머
+> 7. [자연키와 대리키: 키 설계](/blog/db-normalization-7-keys-natural-surrogate/)
+> 8. [제4정규형과 제5정규형, 함수적 종속 너머의 중복](/blog/db-normalization-8-higher-normal-forms/)
 > 9. 정규화 절차와 역정규화
 
 ## 정규화와 정규형

diff --git a/src/content/blog/db-normalization-7-keys-natural-surrogate.md b/src/content/blog/db-normalization-7-keys-natural-surrogate.md
@@ -29,7 +29,7 @@ draft: false
 > 5. [제3정규형 (3NF)](/blog/db-normalization-5-3nf/)
 > 6. [보이스-코드 정규형 (BCNF)](/blog/db-normalization-6-bcnf/)
 > 7. **자연키와 대리키: 키 설계** (이번 글)
-> 8. [제4, 제5정규형 개요와 그 너머](/blog/db-normalization-8-higher-normal-forms/)
+> 8. [제4정규형과 제5정규형, 함수적 종속 너머의 중복](/blog/db-normalization-8-higher-normal-forms/)
 > 9. 정규화 절차와 역정규화
 
 ## 자연키와 대리키란
